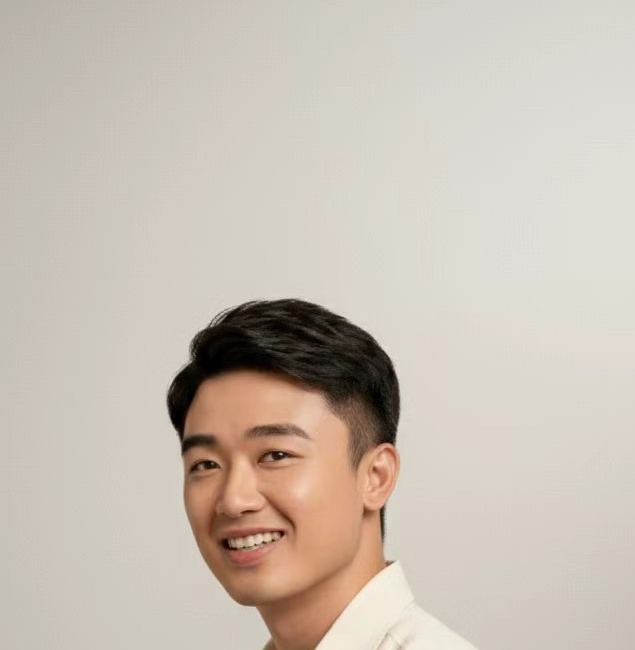
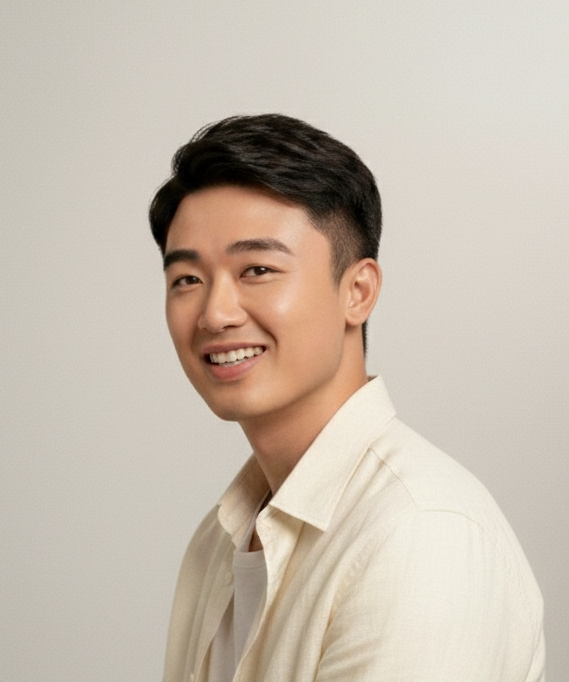
Update portrait photo and center positioning

diff --git a/index.html b/index.html
@@ -532,7 +532,7 @@
             height: 100%;
             border-radius: 50%;
             object-fit: cover;
-            object-position: 55% 15%;
+            object-position: center 20%;
             display: block;
             background: var(--bg-warm-black);
         }
